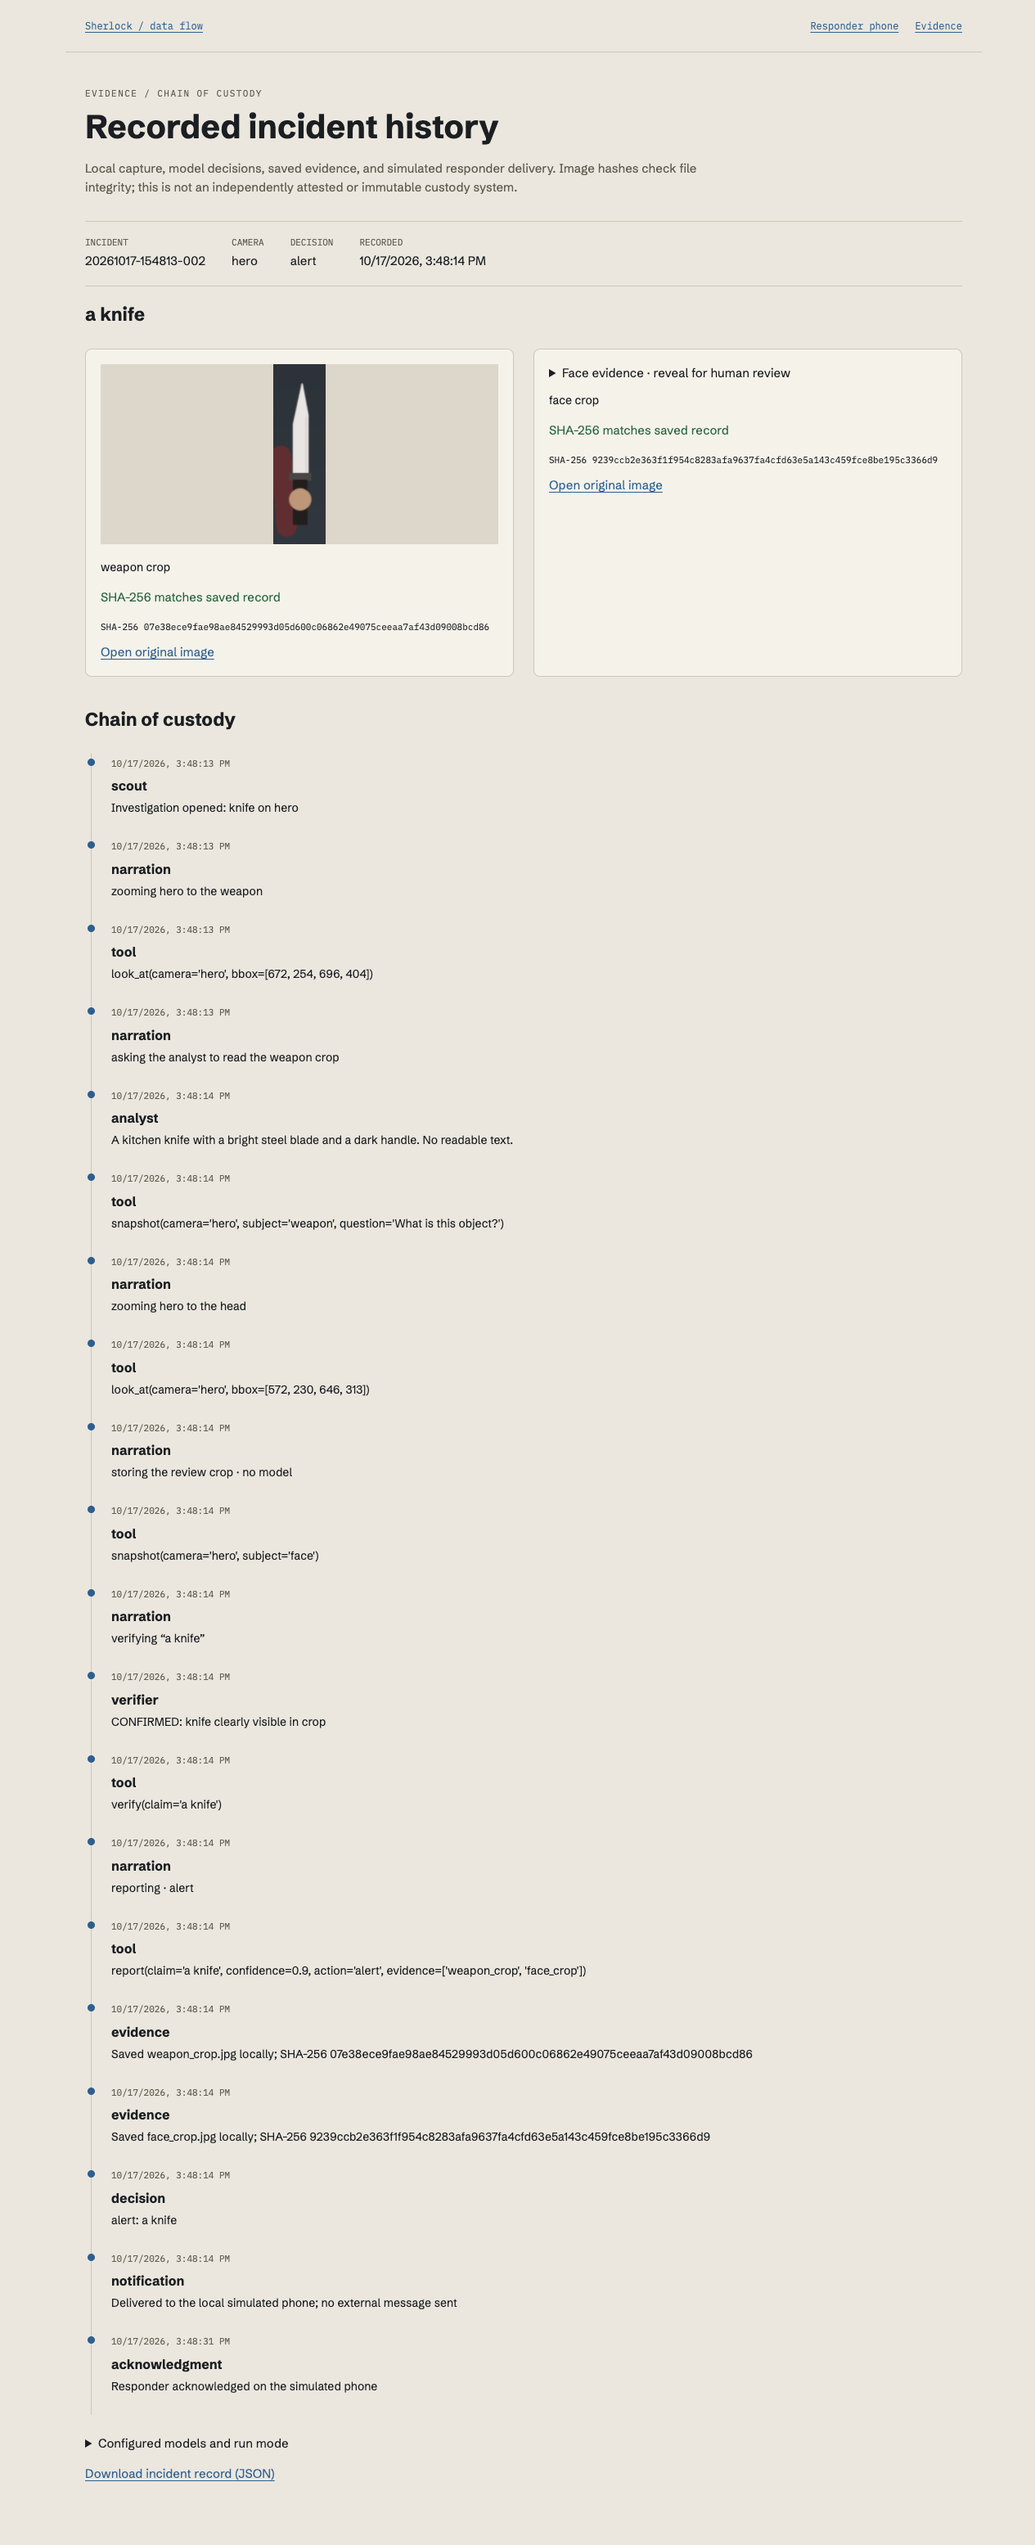
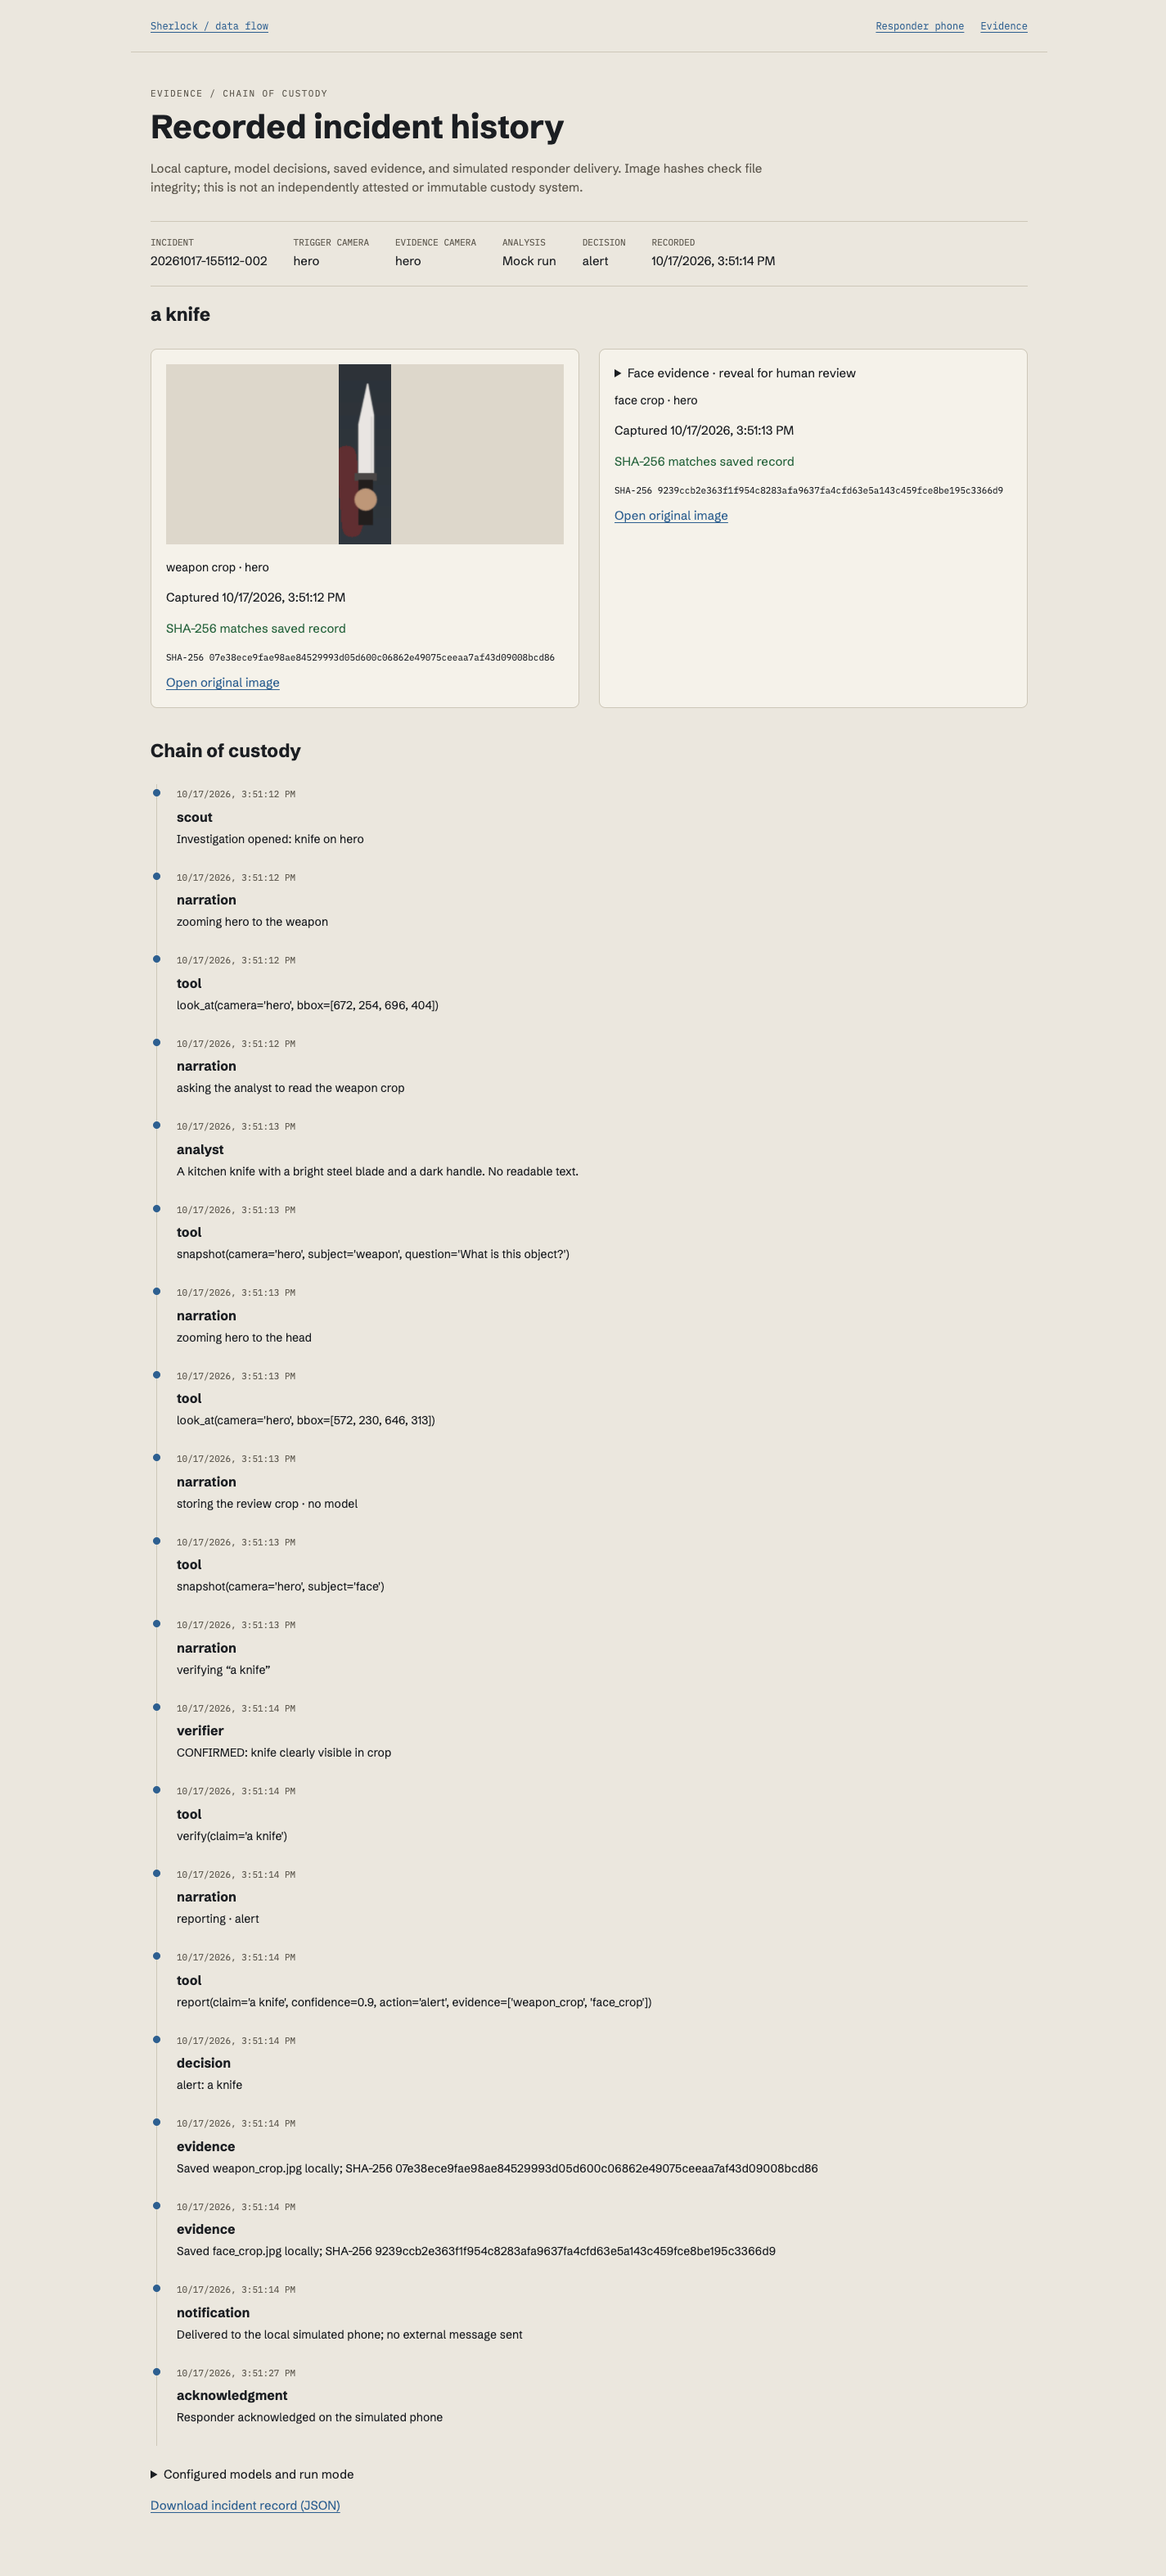
checkpoint: M5-Max 2026-10-17 15:52 (5 files)

Changed region(s): [[0.0925, 0.0312, 0.7399, 0.9981], [0.7708, 0.0, 0.8016, 0.0312]]

diff --git a/sherlock/sherlock/dashboard/static/incidents.js b/sherlock/sherlock/dashboard/static/incidents.js
@@ -1,7 +1,7 @@
 // @ts-check
 'use strict';
 
-/** @typedef {{name:string, sha256:string, url:string, integrity:string, camera?:string}} Artifact */
+/** @typedef {{name:string, sha256:string, url:string, integrity:string, camera?:string,captured_at?:number|null}} Artifact */
 /** @typedef {{stage:string, t:number, detail:string}} CustodyEvent */
 /** @typedef {{incident:string, action:string, claim:string, t:number, verified?:boolean, evidence_camera?:string, trigger?:{camera:string}, artifacts:Artifact[], custody:CustodyEvent[], models?:{mock?:boolean,scout?:string,director?:string,analyst?:string,verifier?:string}, notification:{simulated:boolean,status:string,delivered_at?:number,acknowledged_at?:number}}} Incident */
 
@@ -29,9 +29,9 @@
     return node;
   }
 
-  /** @param {number|undefined} value */
+  /** @param {number|undefined|null} value */
   function timestamp(value) {
-    return value === undefined ? 'Not recorded' : new Date(value * 1000).toLocaleString();
+    return value == null ? 'Not recorded' : new Date(value * 1000).toLocaleString();
   }
 
   /** @param {string} url @param {RequestInit} [options] @returns {Promise<any>} */
@@ -53,6 +53,13 @@
     const link = document.createElement('a');
     link.href = custodyUrl(record.incident);
     link.title = `Chain of custody: ${artifact.name}, ${record.incident}`;
+
+    if (artifact.integrity === 'missing') {
+      link.textContent = 'Image unavailable · view record';
+
+      return link;
+    }
+
     const img = document.createElement('img');
     img.src = artifact.url;
     img.alt = `${artifact.name.replaceAll('_', ' ')} from ${record.incident}. View chain of custody`;
@@ -161,12 +168,15 @@
       img.src = artifact.url;
       img.alt = artifact.name.replaceAll('_', ' ');
 
-      if (artifact.name === 'face_crop') {
+      if (artifact.integrity === 'missing') {
+        figure.append(element('p', 'Image unavailable. The recorded hash is retained below.'));
+      } else if (artifact.name === 'face_crop') {
         const disclosure = document.createElement('details');
         disclosure.append(element('summary', 'Face evidence · reveal for human review'), img);
         figure.append(disclosure);
       } else figure.append(img);
       figure.append(element('figcaption', `${artifact.name.replaceAll('_', ' ')} · ${artifact.camera || record.evidence_camera || 'camera not recorded'}`));
+      figure.append(element('p', `Captured ${timestamp(artifact.captured_at)}`));
       const good = artifact.integrity === 'verified';
       figure.append(element('p', good ? 'SHA-256 matches saved record' : `Integrity check: ${artifact.integrity}`, good ? 'integrity-ok' : 'integrity-error'));
       figure.append(element('code', `SHA-256 ${artifact.sha256}`));
@@ -221,7 +231,7 @@
           link.href = custodyUrl(record.incident);
           const artifact = record.artifacts.find(item => item.name !== 'face_crop');
 
-          if (artifact) {
+          if (artifact && artifact.integrity !== 'missing') {
             const img = document.createElement('img');
             img.src = artifact.url;
             img.alt = artifact.name.replaceAll('_', ' ');

diff --git a/sherlock/sherlock/dashboard/static/pipeline.html b/sherlock/sherlock/dashboard/static/pipeline.html
@@ -113,7 +113,7 @@
   .dest .kind { font: 500 10px var(--mono); letter-spacing: .14em; text-transform: uppercase; color: var(--dim); }
   .dest .num { font: 500 clamp(26px, 3.2vw, 38px)/1.05 var(--mono); font-variant-numeric: tabular-nums; }
   .dest .sub { font-size: 12px; color: var(--dim); }
-  .dest.ping { border-color: var(--c); background: var(--card-hi); box-shadow: 0 0 0 1px var(--c), 0 10px 22px -14px var(--c); }
+  .dest.ping { border-color: var(--c); background: var(--card-hi); outline: 1px solid var(--c); }
   #d-alert.ping { animation: alertpulse 1.2s ease-in-out 2; }
   .dest .keep { position: absolute; right: 12px; top: 50%; transform: translateY(-50%); width: clamp(40px, 3.6vw, 52px); aspect-ratio: 1; border: 1px dashed var(--rail); border-radius: 4px; }
 
